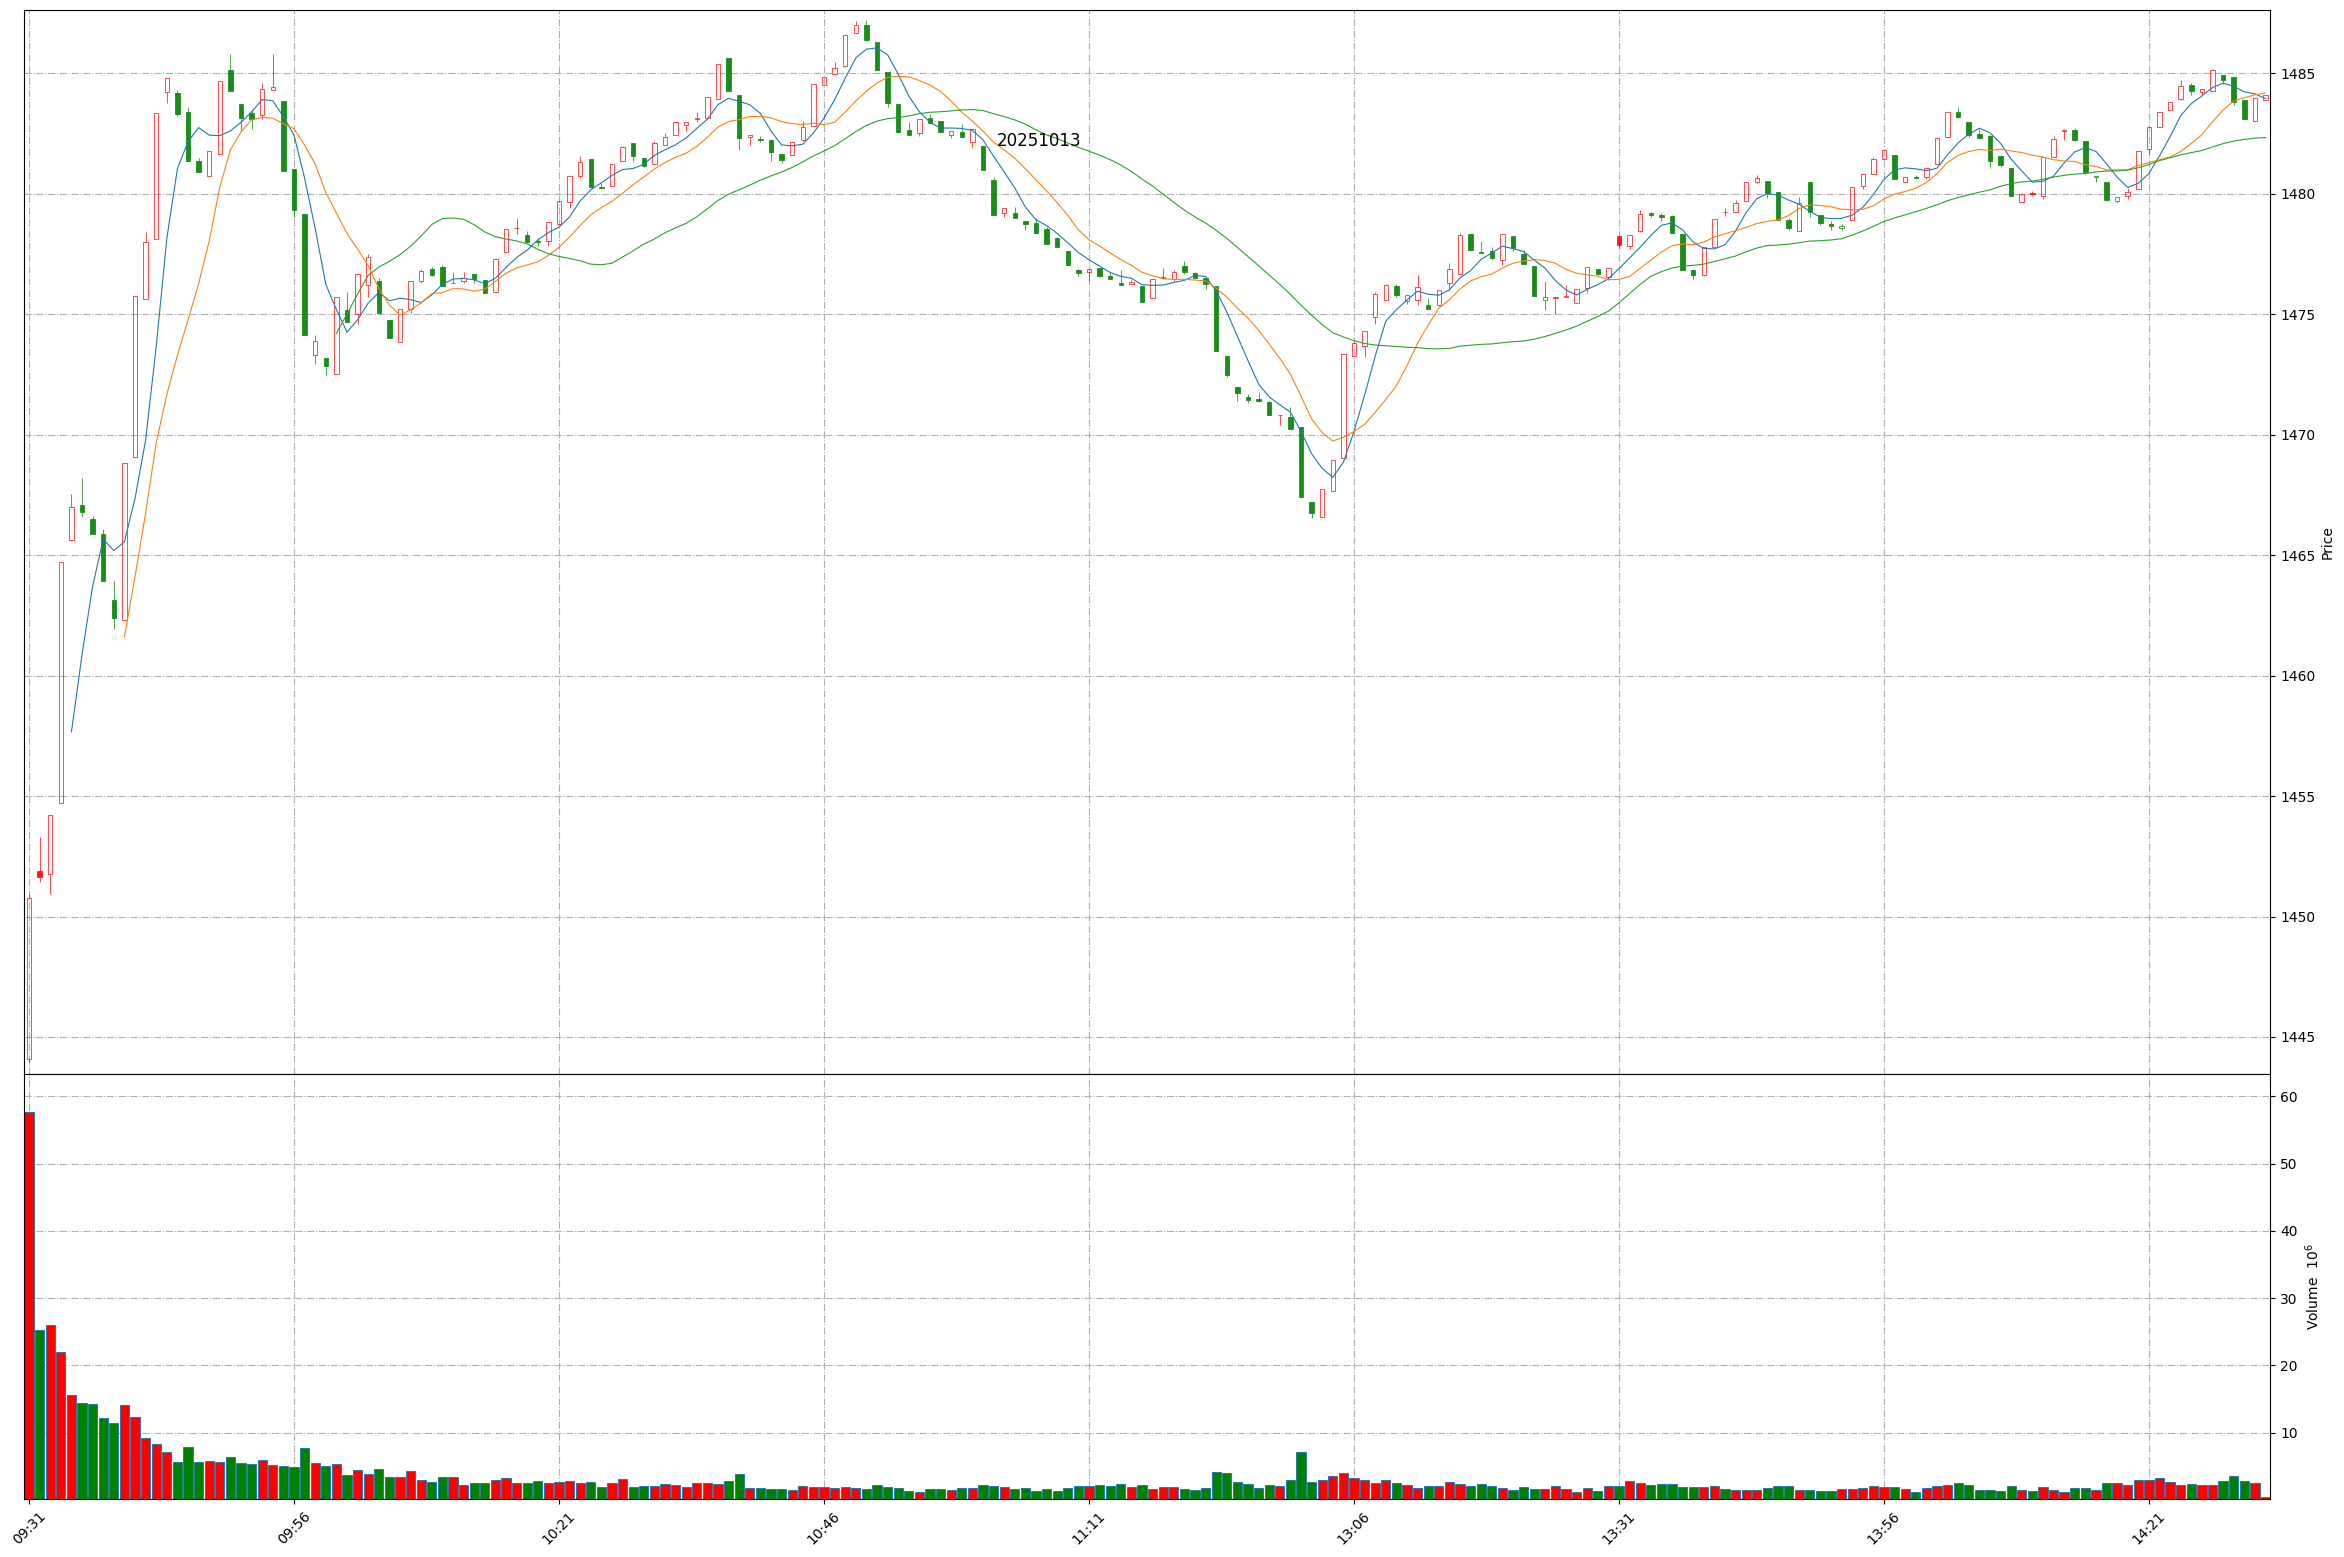
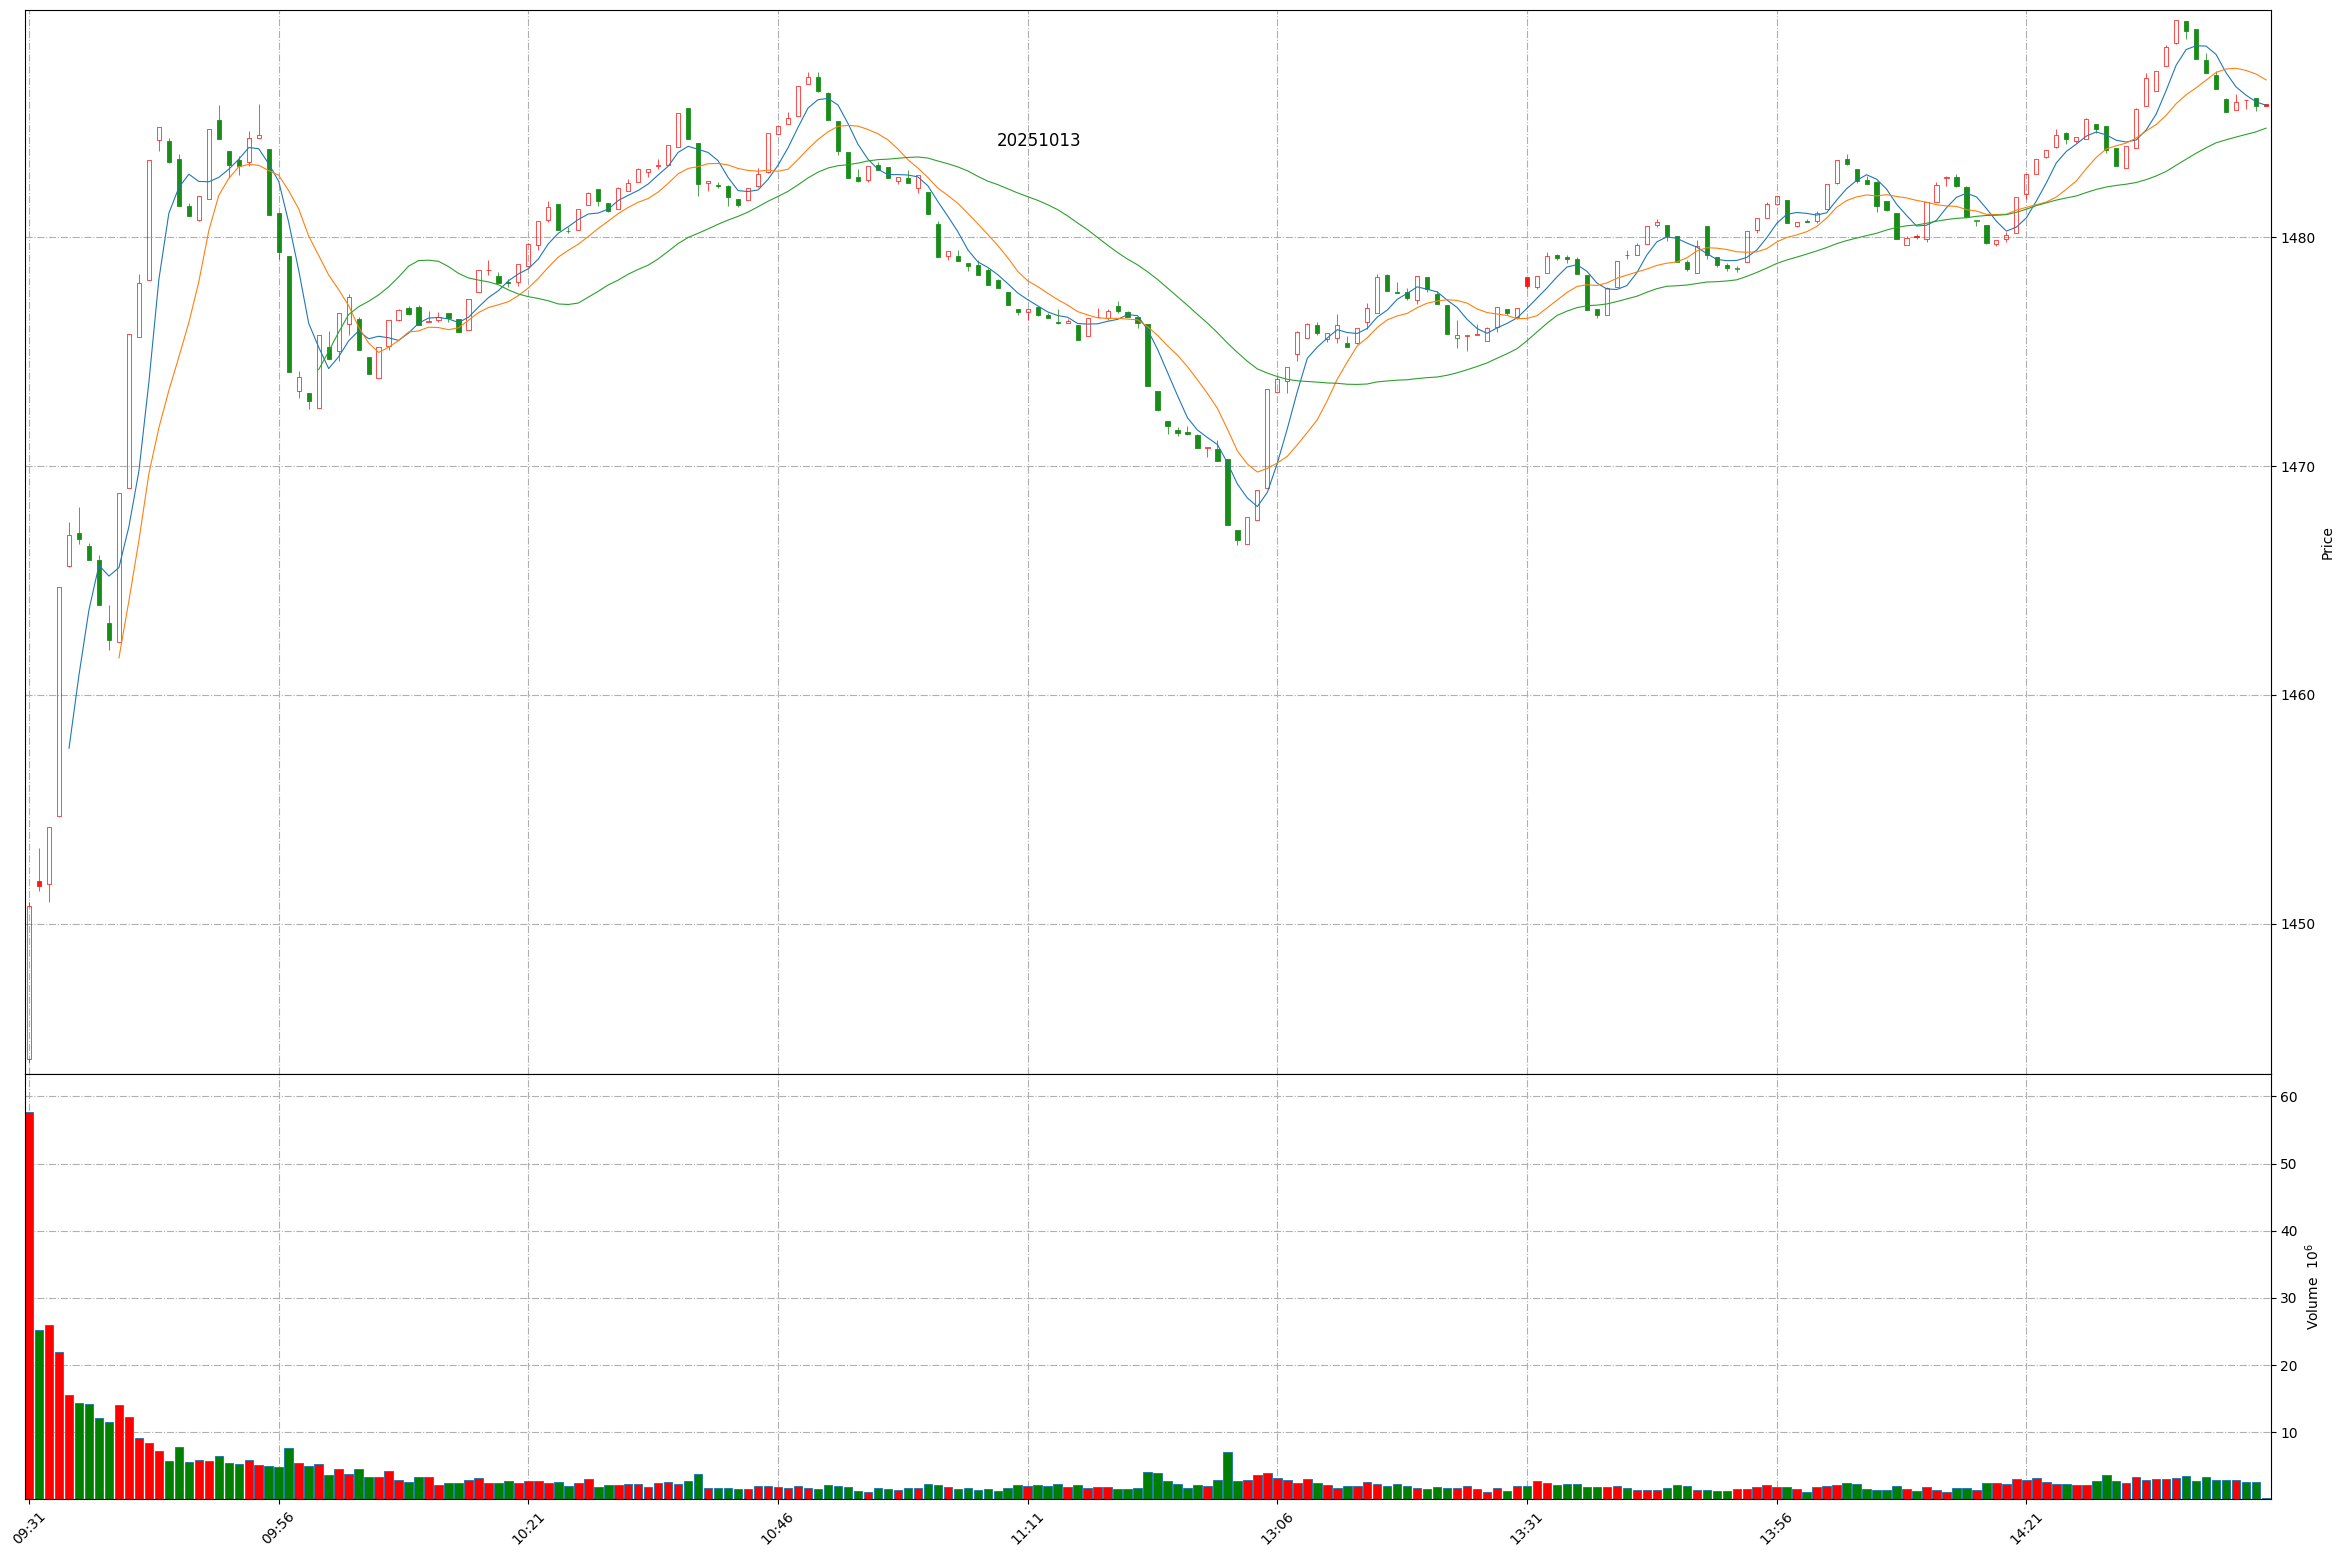
Github action update at 2025-10-13 14:44:18.

diff --git a/README.md b/README.md
@@ -1,11 +1,11 @@
 
 # Daily-A-share-market-quotes 每日 A 股指数（5min 更新）- 20251013
 
-### 上证指数 20251013 14:31
+### 上证指数 20251013 14:44
 ![](./fig/2025/10/20251013-sh000001.png)
 
-### 深证成指 20251013 14:31
+### 深证成指 20251013 14:44
 ![](./fig/2025/10/20251013-sz399001.png)
 
-### 北证50 20251013 14:31
+### 北证50 20251013 14:44
 ![](./fig/2025/10/20251013-bj899050.png)
